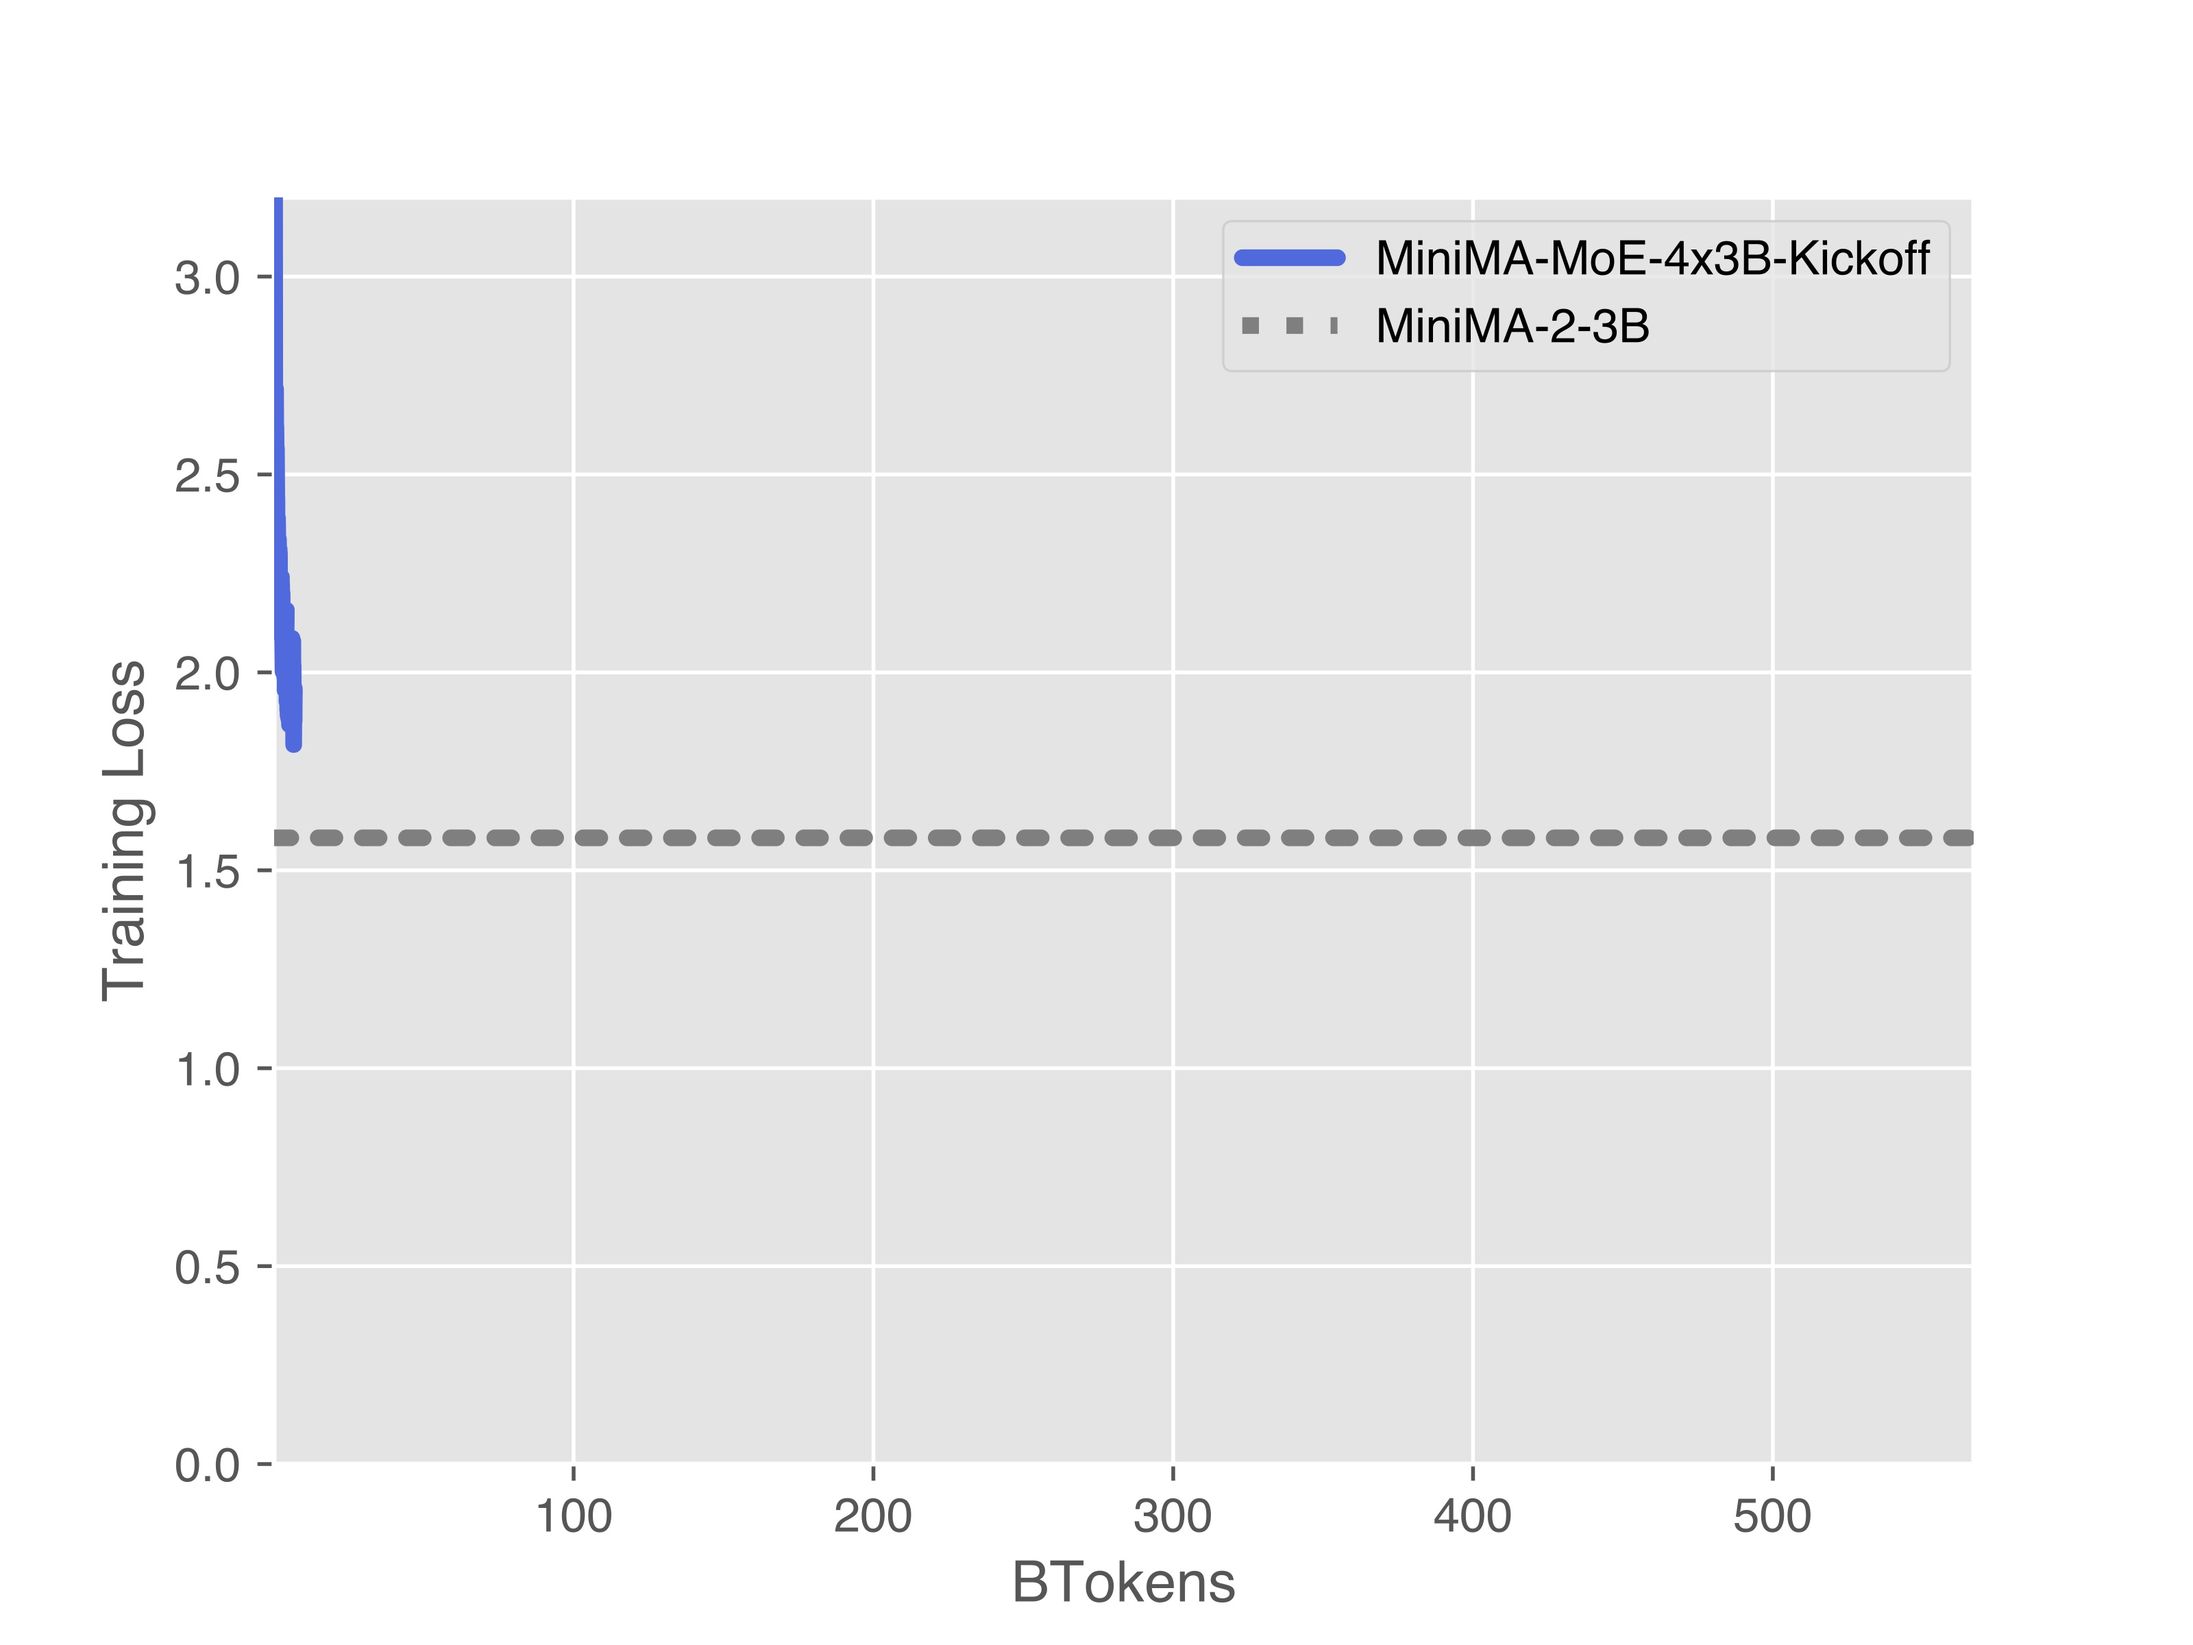
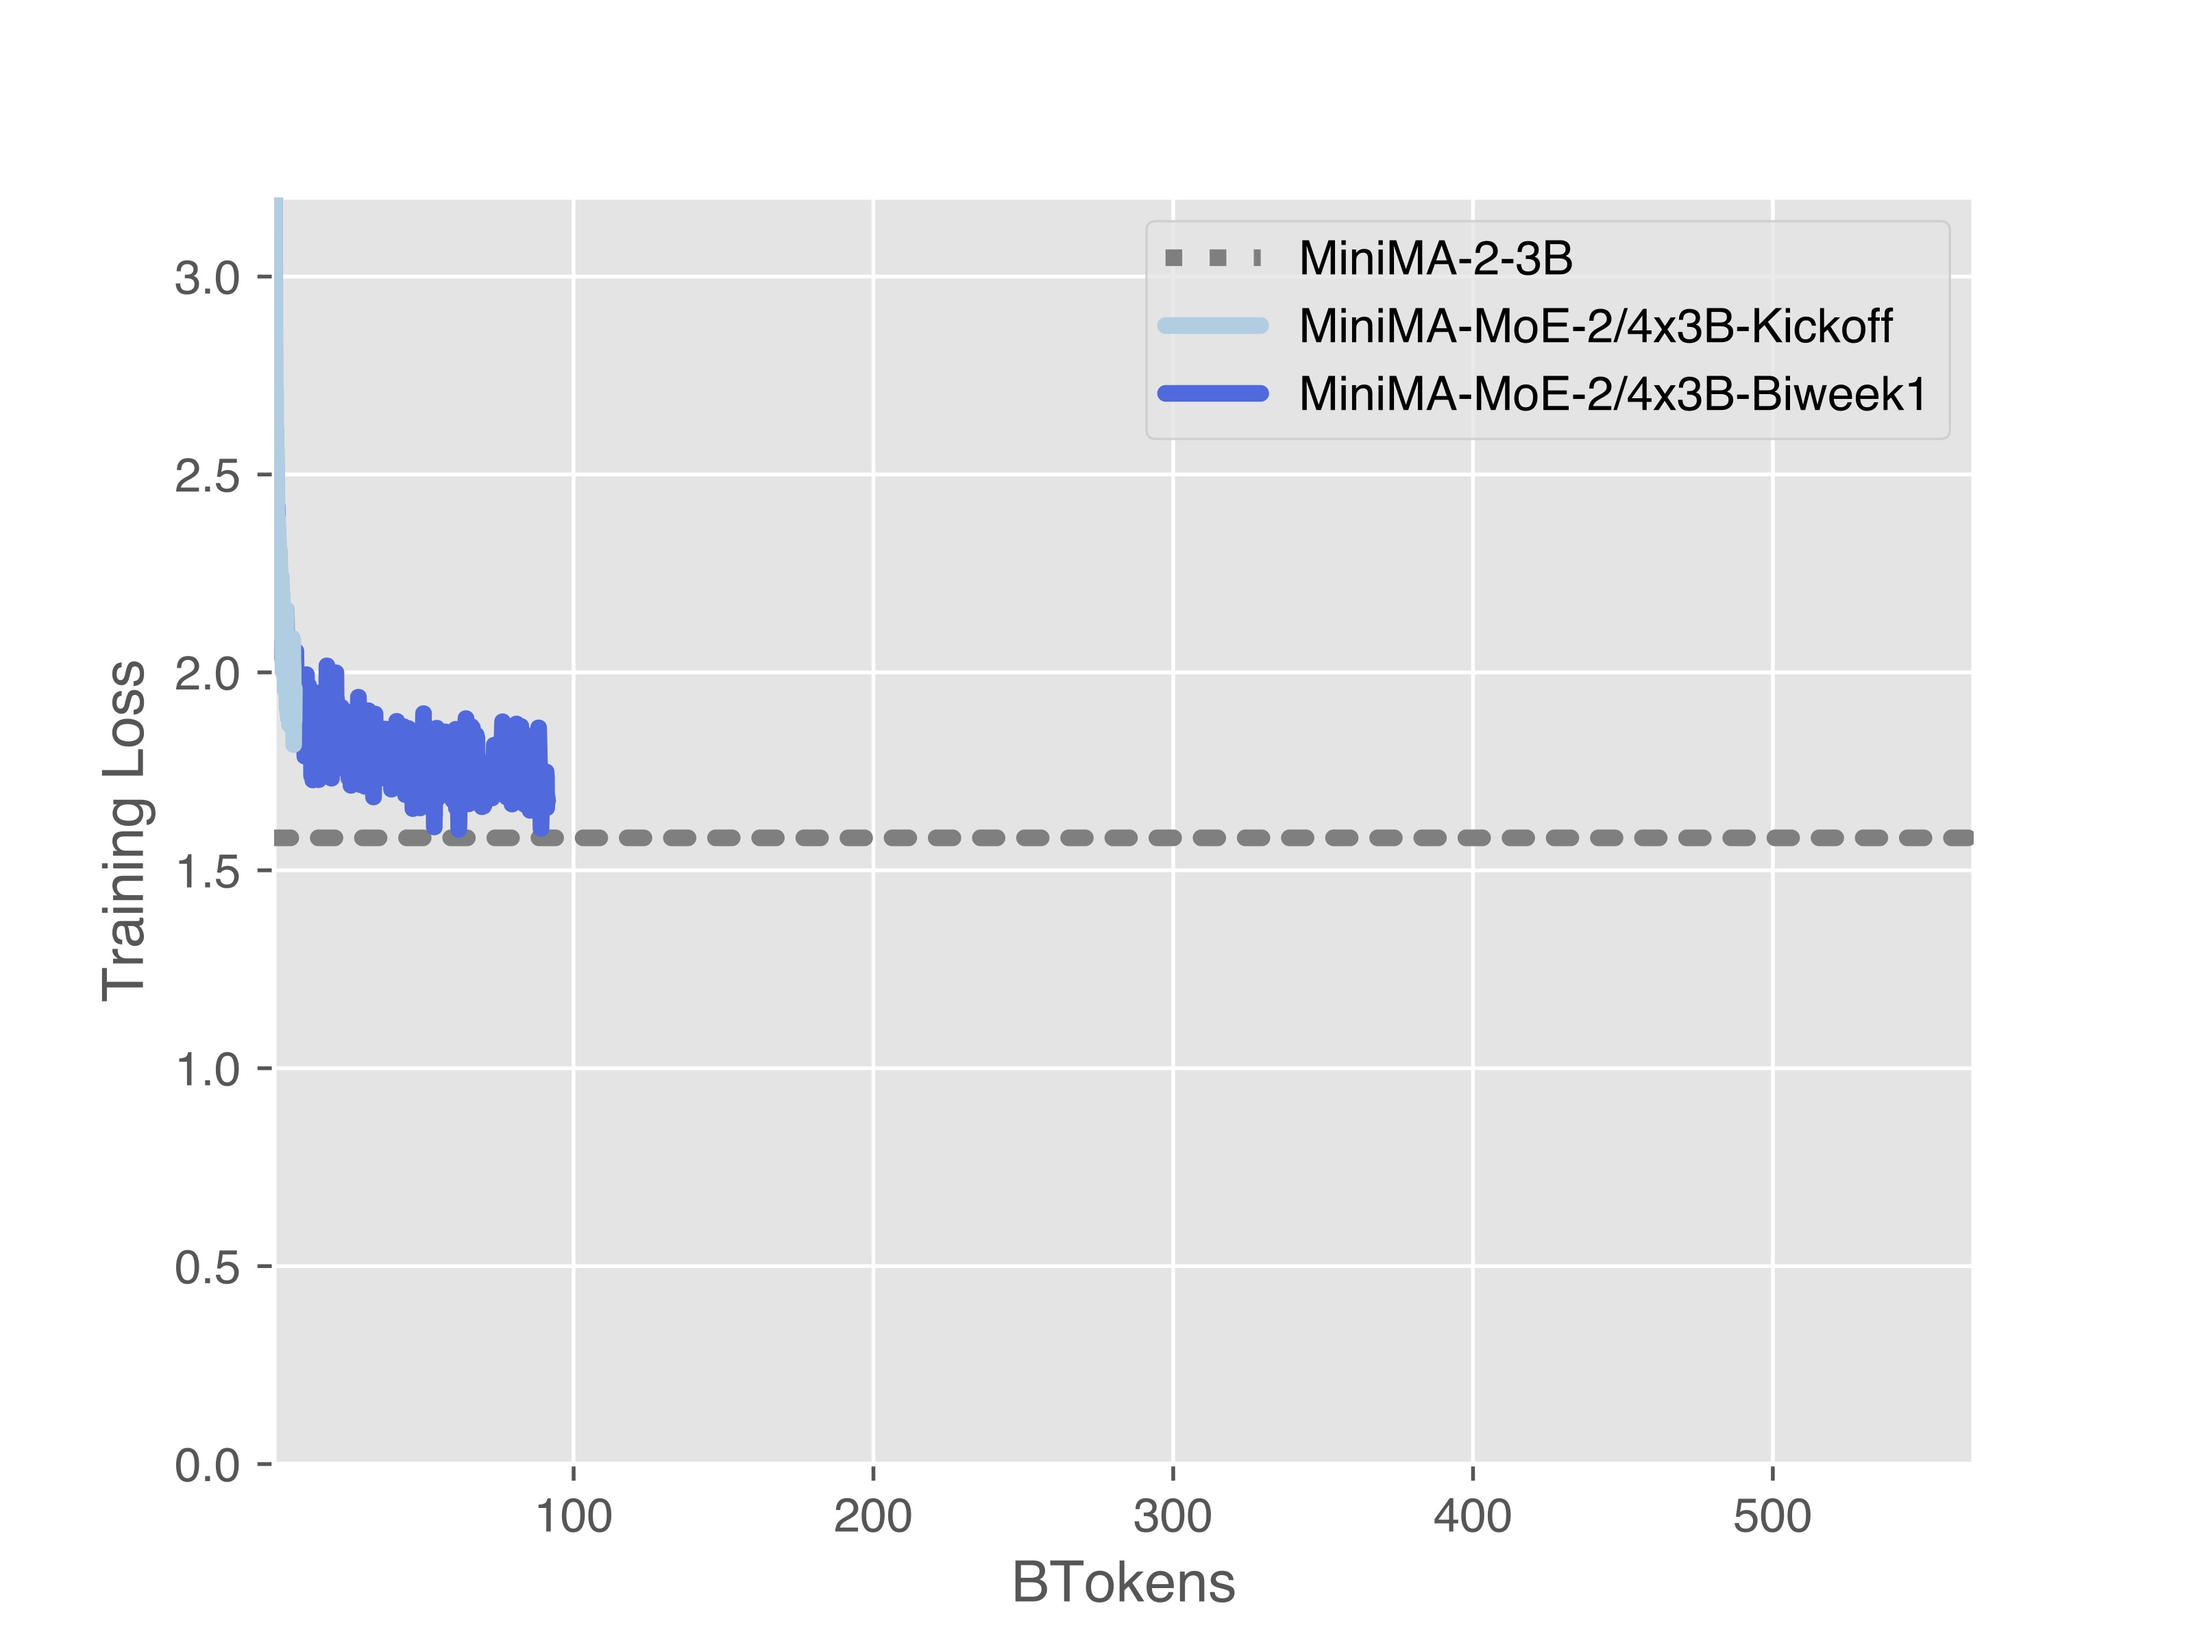
Update MiniMA-MoE biweek-1

Changed region(s): [[0.5312, 0.125, 0.875, 0.25], [0.125, 0.125, 0.25, 0.5312]]

diff --git a/README.md b/README.md
@@ -34,7 +34,7 @@ However, the tale is not ever one-sided. Although a larger teacher LM has better
 
 [2024/1/3] [MT-Bench-ZH](./mt_bench_zh) is released to serve as a Chinese counterpart of multi-turn instruction-following evaluaion (e.g., MT-Bench). MT-Bench-ZH is essentially translated from MT-Bench by GPT-4 and further checked by human. On the MT-Bench-ZH, MiniChat-2-3B surpasses Qwen-Chat-1.8B and approximates Qwen-Chat-7B. And it indicates MiniChat-2-3B has a better bilingual ability than others (e.g., Phi-2, StableLM-Zephyr-3B, etc.).
 
-[2023/12/29] MiniMA-MoE is kicked off, aiming at upcycling MiniMA-2-3B to an MoE model. Following the [Pyramid-MoE](https://www.microsoft.com/en-us/research/blog/deepspeed-advancing-moe-inference-and-training-to-power-next-generation-ai-scale/) design, MiniMA-MoE has the bottom 25% MLPs with 2 experts while the top 75% MLPs with 4 experts, reaching ~7B parameters in total. Top-1 gating is used to preserve 3B activated parameters per token. The progress would be updated in a biweekly schedule (totally 6 biweeks as estimated) and could be tracked in [Live](#-live).
+[2023/12/29] MiniMA-MoE is kicked off, aiming at upcycling MiniMA-2-3B to an MoE model. Following the [Pyramid-MoE](https://www.microsoft.com/en-us/research/blog/deepspeed-advancing-moe-inference-and-training-to-power-next-generation-ai-scale/) design, MiniMA-MoE has the bottom 25% MLPs with 2 experts while the top 75% MLPs with 4 experts, reaching ~7B parameters in total. Top-1 gating is used to preserve 3B activated parameters per token. The progress would be updated in a biweekly schedule (totally 6 biweeks as estimated) and could be tracked in [Live](#-live). We later decide to name it as MiniMix to show our respect to Mixtral.
 
 [2023/12/27] Performance results are added for potential references in [Performance](#-performance). Still room for improvement, bravo!
 
@@ -52,7 +52,7 @@ However, the tale is not ever one-sided. Although a larger teacher LM has better
 
 ## 📺 Live
 
-> MiniMA-MoE-4x3B
+> MiniMA-MoE-2/4x3B (a.k.a. MiniMix)
 
 **Training Losses**
 
@@ -63,7 +63,8 @@ However, the tale is not ever one-sided. Although a larger teacher LM has better
 ||TFLOPs|MMLU (5-shot)|CEval (5-shot)|DROP (3-shot)|HumanEval (0-shot)|BBH (3-shot)|GSM8K (8-shot)|
 |--|--|--|--|--|--|--|--|
 |MiniMA-2-3B|13.4E9|40.14|44.65|23.10|14.63|31.43|8.87|
-|MiniMA-MoE-4x3B-Kickoff|+0.3E9|33.71|33.66|20.80|9.76|29.35|6.07|
+|MiniMA-MoE-2/4x3B-Kickoff|+0.3E9|33.71|33.66|20.80|9.76|29.35|6.07|
+|MiniMA-MoE-2/4x3B-Biweek1|+1.6E9|32.17|35.59|20.48|9.15|30.10|5.91|
 
 ## 📊 Performance
 
